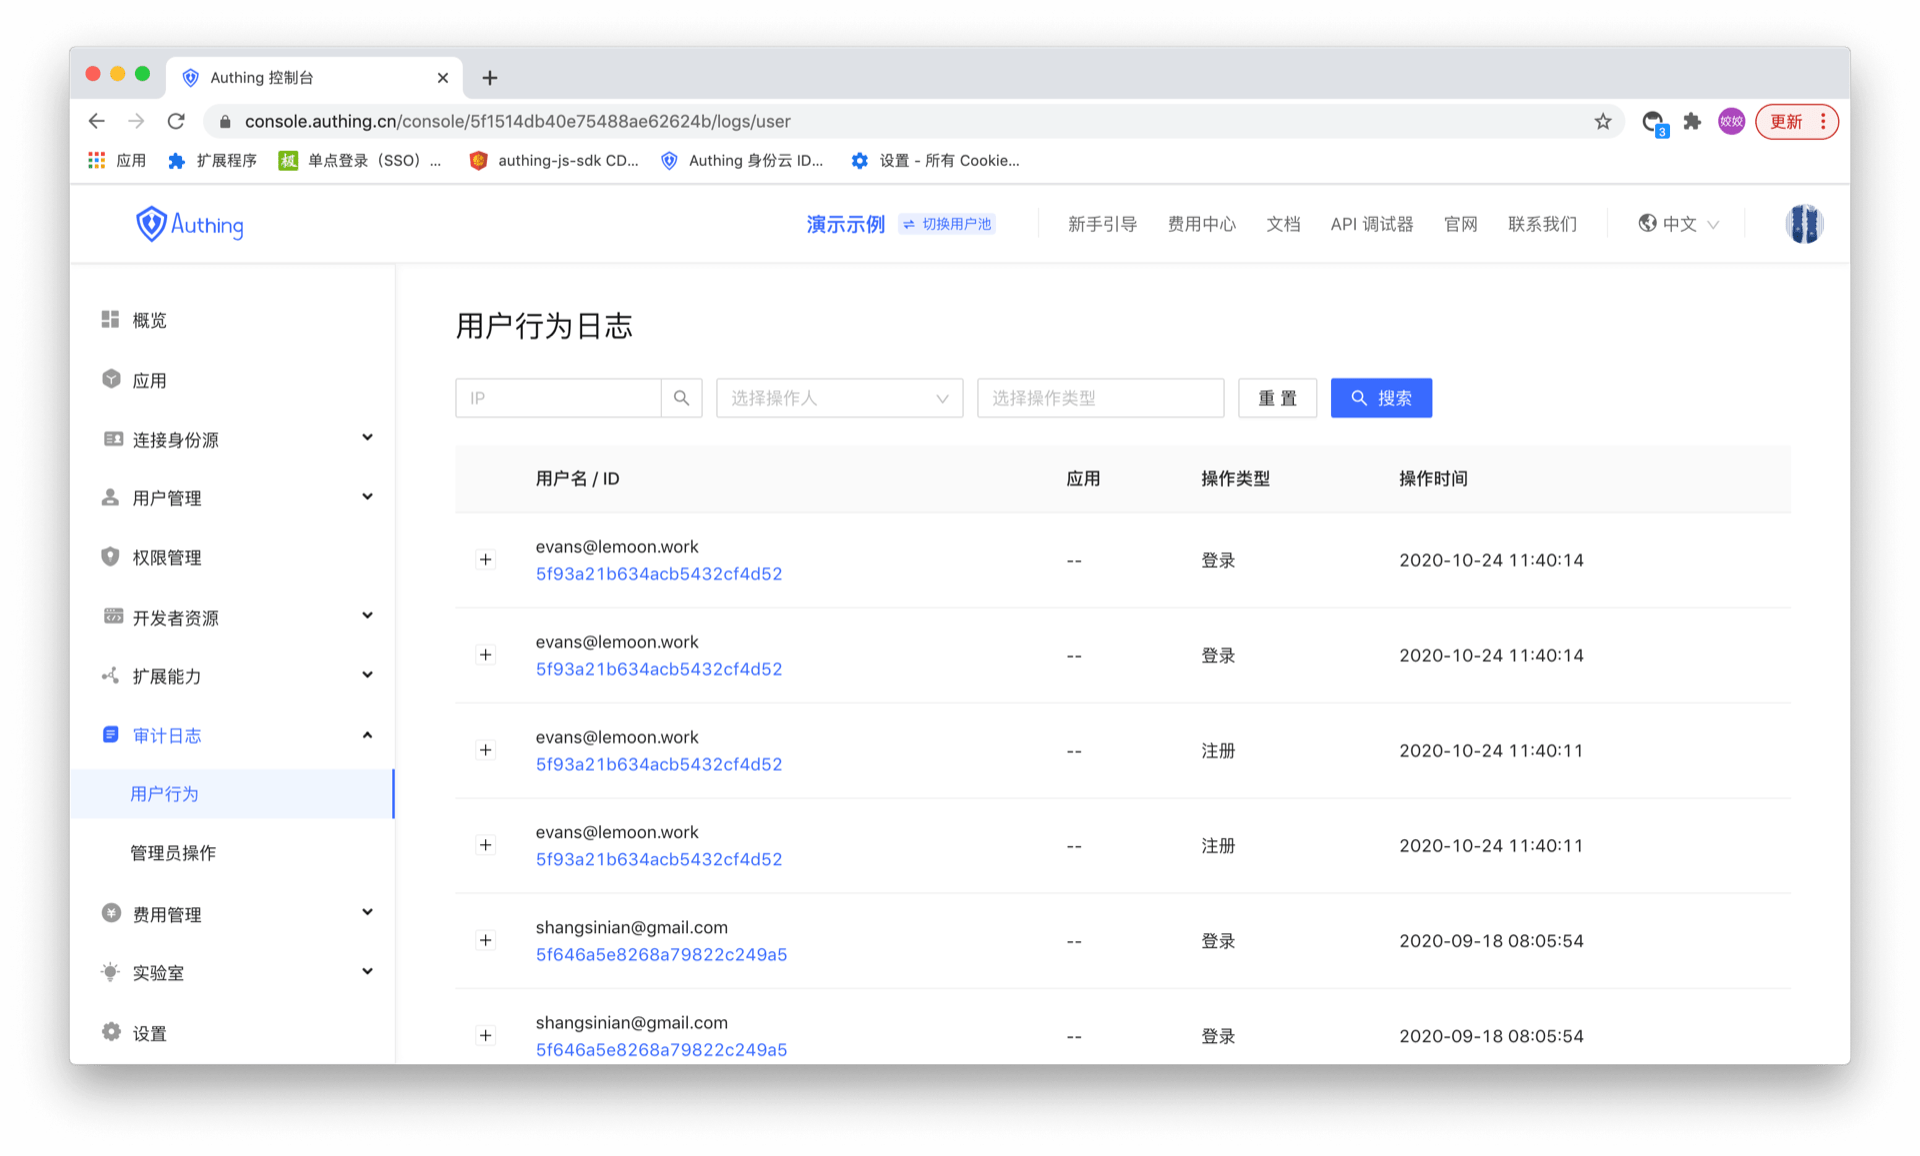
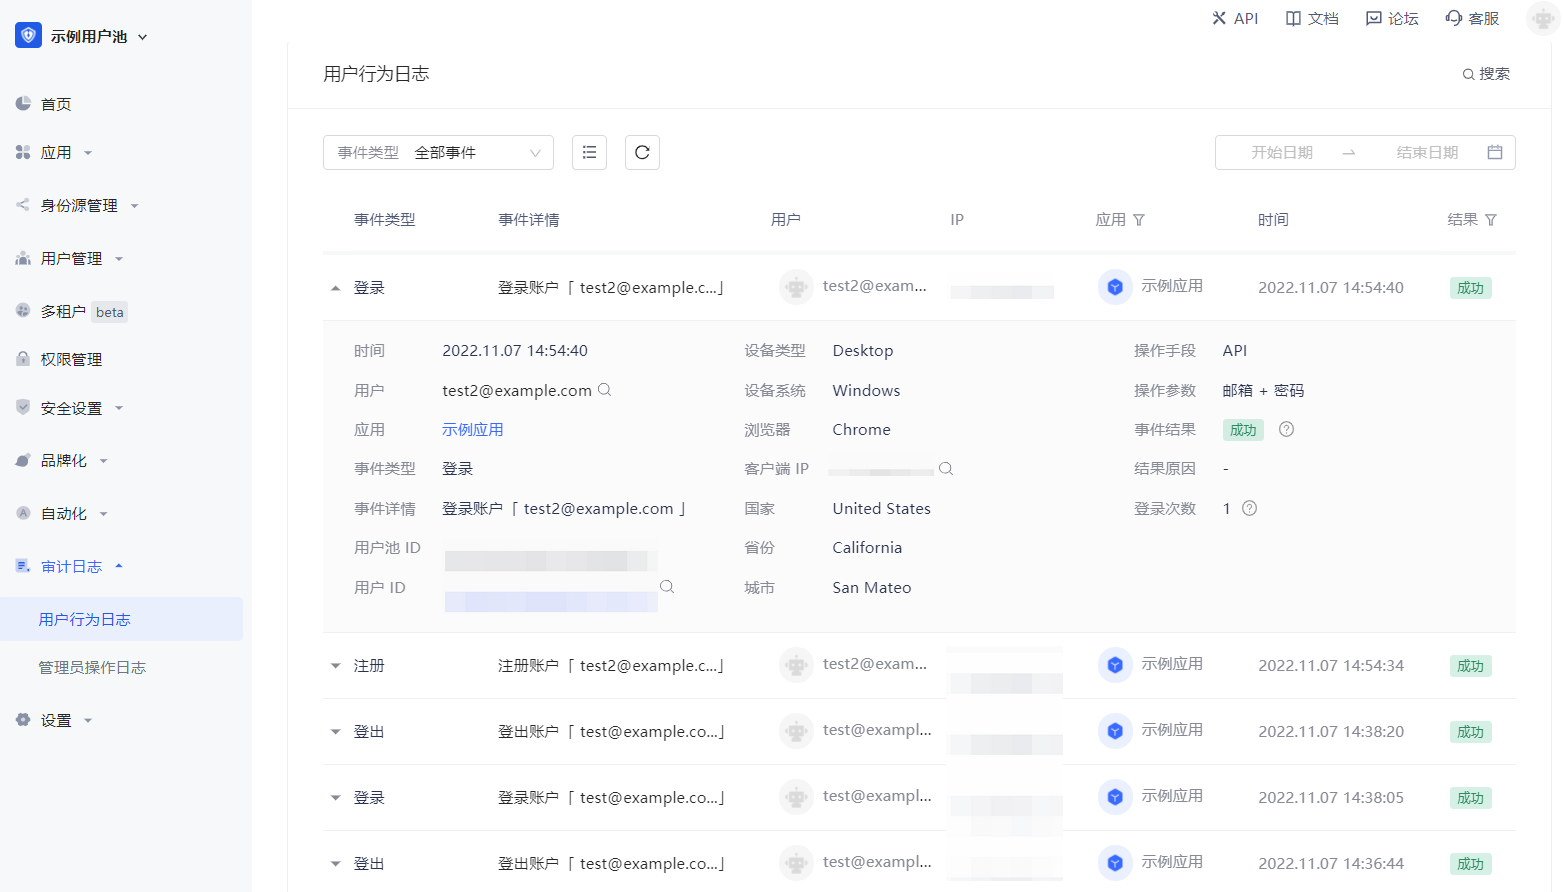
Update 用户行为的审计图片

diff --git a/docs/guides/audit/user-action.md b/docs/guides/audit/user-action.md
@@ -2,9 +2,10 @@
 
 <LastUpdated/>
 
+路径：**审计日志->用户行为日志**
+
 普通用户行为审计主要体现为用户的登入/登出以及其他操作类型记录。
 
-进入 审计日志 -> 用户行为 页面
+以下为用户行为日志列表及用户行为详情。
 
 ![](./images/audit-user-1.png)
-![](./images/audit-user-2.png)
